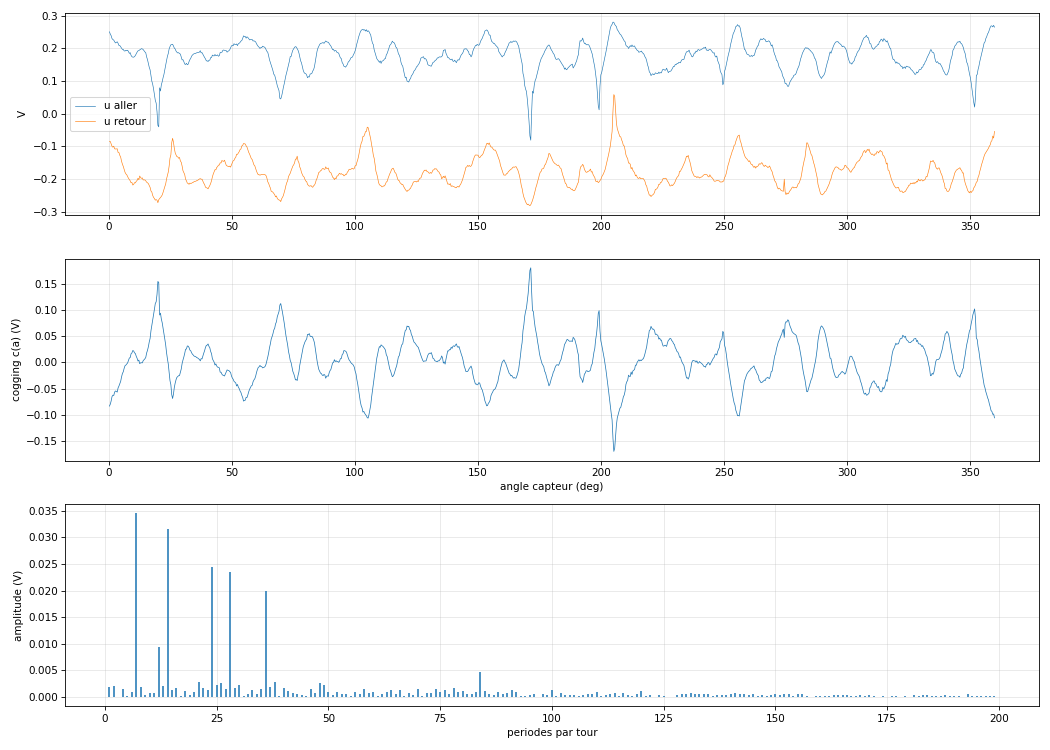
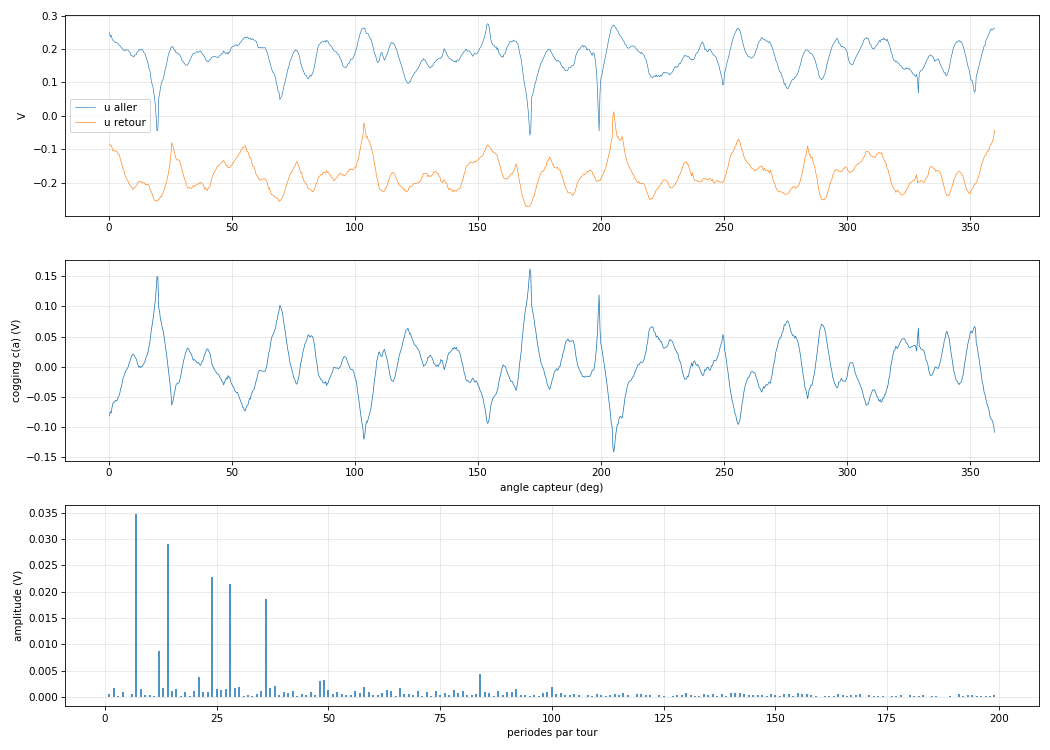
knob_lab : nouvelle loi de crans validee sans main, profils
e12 (main virtuelle, mode 7) : ancienne loi 1957 mV / 25 mrad de vibration
> 40 Hz en tournant et oscillation 4/4 aux lachers ; loi B (D=0,045, vitesse
sur 2 echantillons, cogging compense) 124 mV / 4 mrad, 0/4 -- le residu est
le transitoire du clic, pas une oscillation. Compensation du cogging par
table (gen_cogging.py -> cogging.h, reproductibilite 0,991) : effort du
ressort 47 -> 20 mV. Demarrage sur la loi B, profil.py pour basculer.

diff --git a/pendant/knob_lab/essais/e12_comparer.py b/pendant/knob_lab/essais/e12_comparer.py
@@ -1,0 +1,78 @@
+#!/usr/bin/env python3
+"""e12 -- banc comparatif de lois de crans, SANS MAIN.
+Pour chaque loi : repos (3 s), lachers (+-0,3 et +-0,45 largeur) et
+traversee de 4 crans dans chaque sens par la MAIN VIRTUELLE (mode 7).
+Indicateurs :
+  repos   u_rms (mV), v_rms (rad/s)          -> vibration propre
+  lacher  ecart final (deg), depassement      -> precision, rebond
+          oscille (oui/non)                   -> stabilite
+  tourner vib_u (mV rms > 40 Hz)              -> vibration en tournant
+          vib_a (mrad rms > 40 Hz)            -> ce que la main sent
+          crans (nb de changements de cran)   -> 8 attendus
+Usage : e12_comparer.py [noms de lois...] (voir LOIS)"""
+import sys, os, time
+sys.path.insert(0, os.path.dirname(os.path.dirname(os.path.abspath(__file__))))
+from lab import *
+from scipy.signal import butter, sosfiltfilt
+
+DEG = np.pi / 180
+LOIS = {
+  'ancien': dict(w=27*DEG, kd=1.6, dz=1.0*DEG, snap=1.1, d=0.20, nv=4, cog=0),
+  'A':      dict(w=27*DEG, kd=1.6, dz=0.5*DEG, snap=1.1, d=0.045, nv=2, cog=0),
+  'B':      dict(w=27*DEG, kd=1.6, dz=0.5*DEG, snap=1.1, d=0.045, nv=2, cog=1),
+  'C':      dict(w=27*DEG, kd=2.0, dz=0.5*DEG, snap=1.1, d=0.045, nv=2, cog=1),
+  'fin':    dict(w=12*DEG, kd=1.0, dz=0.3*DEG, snap=1.1, d=0.045, nv=2, cog=1),
+  'fin0':   dict(w=12*DEG, kd=1.0, dz=0.3*DEG, snap=1.1, d=0.045, nv=2, cog=0),
+}
+COMMUN = dict(tau=0, vz=0, nbc=0, kmur=0, umax=2.2, vmax=60)
+HP = butter(4, 40, 'highpass', fs=2000, output='sos')
+
+def hf(x):
+    return sosfiltfilt(HP, x - np.mean(x))
+
+def essai(L, nom, P):
+    w = P['w']
+    L.set(mode=0, **COMMUN, **P); time.sleep(0.3)
+    L.zero(); L.set(mode=6); time.sleep(1.0)
+    res = {}
+    r = L.rec(3.0)
+    res['repos_u'] = r['u'].std() * 1000
+    res['repos_v'] = np.sqrt(np.mean(vitesse(r, 2)**2))
+    centre = np.median(r['ang'])            # centre pose du cran 0 (absolu)
+    # lachers
+    ecarts, osc, dep = [], 0, []
+    for frac in (0.3, -0.3, 0.45, -0.45):
+        L.set(mode=5, k=25, d=0.03, cible=round(frac * w, 4), vr=1.0); time.sleep(0.6)
+        L.set(**{'d': P['d']})
+        r = L.rec(1.2, s1n=60, s1m=6)
+        rel = r['ang'][60:] - centre
+        fin = np.mean(rel[-300:])
+        e = fin - np.round(fin / w) * w
+        ecarts.append(abs(np.degrees(e)))
+        if np.sqrt(np.mean(vitesse(r, 2)[-300:]**2)) > 0.5: osc += 1
+        L.set(mode=6); time.sleep(0.4)
+    res['lacher_ecart'] = np.mean(ecarts); res['lacher_oscille'] = osc
+    # traversee par la main virtuelle : 4 crans aller, 4 retour
+    vib_u, vib_a, crans = [], [], 0
+    L.set(mode=6); time.sleep(0.3)
+    for cible in (4 * w, 0.0):
+        L.set(kh=5, vr=1.5, cible=round(cible, 4))
+        r = L.rec(4 * w / 1.5 + 0.6, s1n=1, s1m=7)
+        m = slice(100, -100)
+        vib_u.append(hf(r['u'])[m].std() * 1000)
+        vib_a.append(hf(r['ang'])[m].std() * 1000)
+        crans += int(((r['fl'] & FL_CRAN) != 0).sum())
+        sauve(r, f'e12_{nom}_trav{int(cible>0)}')
+        L.set(mode=6); time.sleep(0.5)
+    res['tourner_vib_u'] = np.mean(vib_u); res['tourner_vib_a'] = np.mean(vib_a)
+    res['crans'] = crans
+    L.set(mode=0)
+    return res
+
+noms = sys.argv[1:] or list(LOIS)
+with Lab() as L:
+    print(f"{'loi':8s} {'repos_u':>8s} {'repos_v':>8s} {'ecart':>7s} {'oscille':>7s} {'vib_u':>7s} {'vib_a':>7s} {'crans':>5s}")
+    for nom in noms:
+        r = essai(L, nom, LOIS[nom])
+        print(f"{nom:8s} {r['repos_u']:8.1f} {r['repos_v']:8.3f} {r['lacher_ecart']:7.2f} {r['lacher_oscille']:4d}/4 "
+              f"{r['tourner_vib_u']:7.0f} {r['tourner_vib_a']:7.2f} {r['crans']:5d}", flush=True)

diff --git a/pendant/knob_lab/cogging.h b/pendant/knob_lab/cogging.h
@@ -1,0 +1,8 @@
+/* cogging.h -- GENERE par gen_cogging.py a partir de : e09_carte_1.npz, e09_carte.npz
+ * c(a) en mV, 512 points sur un tour, indexe par raw14 >> 5.
+ * c > 0 : le cogging pousse vers les angles croissants. */
+#pragma once
+#include <stdint.h>
+static const int16_t COGGING_MV[512] = {
+-84, -71, -63, -58, -55, -48, -39, -27, -17, -9, -2, 5, 12, 18, 18, 13, 6, 1, 0, 2, 7, 15, 26, 42, 62, 83, 106, 126, 123, 97, 73, 57, 36, 13, -11, -37, -54, -51, -38, -29, -24, -14, 0, 13, 23, 28, 25, 20, 14, 11, 9, 6, 5, 7, 14, 22, 28, 28, 20, 9, 0, -6, -10, -14, -19, -24, -25, -21, -18, -19, -24, -31, -37, -42, -46, -53, -61, -68, -71, -67, -60, -52, -45, -37, -29, -19, -11, -8, -8, -8, -4, 7, 23, 38, 51, 61, 72, 86, 97, 98, 85, 66, 46, 26, 10, -4, -16, -26, -28, -18, -2, 15, 29, 39, 47, 51, 50, 47, 37, 19, 0, -14, -21, -24, -26, -27, -25, -19, -11, -4, 0, 0, 0, 3, 9, 15, 17, 13, 5, -1, -5, -11, -22, -38, -58, -78, -94, -102, -101, -96, -86, -69, -47, -23, 0, 16, 24, 25, 26, 22, 13, -1, -14, -22, -21, -13, -1, 12, 24, 36, 48, 58, 63, 60, 54, 45, 38, 33, 28, 21, 12, 5, 3, 7, 13, 16, 14, 8, 3, 2, 3, 6, 6, 2, 4, 14, 21, 26, 28, 30, 31, 28, 23, 15, 3, -10, -18, -20, -18, -19, -24, -30, -34, -37, -42, -50, -61, -74, -83, -81, -69, -59, -52, -46, -37, -24, -11, -2, 0, -5, -13, -20, -25, -29, -31, -29, -15, 7, 35, 64, 89, 112, 139, 145, 117, 85, 63, 42, 24, 9, -2, -11, -22, -32, -36, -31, -21, -12, -7, -4, 1, 11, 23, 34, 41, 42, 41, 42, 40, 31, 16, -1, -16, -23, -22, -19, -17, -16, -11, -1, 14, 40, 69, 71, 44, 18, -2, -24, -48, -74, -106, -134, -133, -111, -95, -86, -78, -65, -49, -36, -27, -23, -19, -13, -6, 0, 3, 5, 8, 16, 29, 45, 59, 64, 62, 57, 52, 47, 43, 38, 33, 32, 35, 40, 43, 40, 34, 27, 20, 13, 4, -5, -15, -21, -22, -14, -4, 3, 4, 2, 0, -3, -7, -9, -7, -4, -3, -2, 2, 8, 12, 17, 26, 37, 44, 38, 19, -4, -25, -45, -62, -76, -89, -95, -89, -72, -52, -36, -25, -19, -14, -11, -10, -14, -22, -30, -36, -38, -35, -32, -30, -27, -21, -9, 7, 22, 35, 44, 52, 59, 66, 73, 74, 68, 59, 54, 50, 45, 34, 19, -1, -21, -38, -47, -44, -35, -25, -11, 8, 31, 52, 64, 66, 59, 46, 30, 13, -2, -16, -26, -30, -28, -24, -21, -22, -21, -13, -1, 6, 6, -1, -11, -19, -27, -36, -46, -55, -61, -60, -54, -45, -40, -40, -45, -50, -55, -55, -51, -45, -35, -22, -6, 10, 24, 31, 33, 37, 42, 46, 46, 43, 39, 36, 36, 37, 38, 39, 41, 36, 31, 27, 20, 10, -2, -13, -17, -13, -5, 0, 4, 12, 24, 39, 50, 53, 44, 27, 8, -8, -19, -25, -26, -22, -11, 6, 25, 42, 56, 67, 75, 69, 45, 21, 1, -19, -37, -51, -63, -75, -85, -94, -95
+};

diff --git a/pendant/knob_lab/essais/e09_cogging.py b/pendant/knob_lab/essais/e09_cogging.py
@@ -10,13 +10,15 @@ sys.path.insert(0, os.path.dirname(os.path.dirname(os.path.abspath(__file__))))
 from lab import *
 
 K, D, VR = 30.0, 0.04, 0.4
+COG = float(os.environ.get('COG', '0'))
+SUF = os.environ.get('SUF', '')
 TOUR = 2 * np.pi
 with Lab() as L:
     L.zero()
-    L.set(mode=5, k=K, d=D, vr=VR, cible=0, umax=2.2)
+    L.set(mode=5, k=K, d=D, vr=VR, cible=0, umax=2.2, cog=COG)
     time.sleep(0.5)
-    L.set(cible=round(TOUR + 0.3, 4)); ra = L.rec((TOUR + 0.3) / VR + 0.5, nom='e09_aller')
-    L.set(cible=-0.3);                 rr = L.rec((TOUR + 0.6) / VR + 0.5, nom='e09_retour')
+    L.set(cible=round(TOUR + 0.3, 4)); ra = L.rec((TOUR + 0.3) / VR + 0.5, nom=f'e09_aller{SUF}')
+    L.set(cible=-0.3);                 rr = L.rec((TOUR + 0.6) / VR + 0.5, nom=f'e09_retour{SUF}')
     L.set(cible=0); time.sleep(1.5)
     L.set(mode=0)
 
@@ -45,7 +47,7 @@ F = np.abs(np.fft.rfft(c0)) * 2 / ok.sum()
 top = np.argsort(F[1:200])[::-1][:6] + 1
 print('harmoniques dominants (periodes/tour : amplitude V) :',
       ', '.join(f'{k}:{F[k]:.3f}' for k in top))
-np.savez(os.path.join(OUT, 'e09_carte.npz'), cen=cen, cog=cog, fr=fr, ua=ua, ub=ub)
+np.savez(os.path.join(OUT, f'e09_carte{SUF}.npz'), cen=cen, cog=cog, fr=fr, ua=ua, ub=ub)
 import matplotlib; matplotlib.use('Agg'); import matplotlib.pyplot as plt
 fig, ax = plt.subplots(3, 1, figsize=(14, 10))
 ax[0].plot(np.degrees(cen), ua, lw=.6, label='u aller'); ax[0].plot(np.degrees(cen), ub, lw=.6, label='u retour')
@@ -54,4 +56,4 @@ ax[1].plot(np.degrees(cen), cog, lw=.7); ax[1].set_ylabel('cogging c(a) (V)'); a
 ax[1].set_xlabel('angle capteur (deg)')
 ax[2].stem(np.arange(1, 200), F[1:200], markerfmt=' ', basefmt=' '); ax[2].set_xlabel('periodes par tour')
 ax[2].set_ylabel('amplitude (V)'); ax[2].grid(alpha=.3)
-fig.tight_layout(); fig.savefig(os.path.join(OUT, 'e09_cogging.png'), dpi=75)
+fig.tight_layout(); fig.savefig(os.path.join(OUT, f'e09_cogging{SUF}.png'), dpi=75)

diff --git a/pendant/knob_lab/profil.py b/pendant/knob_lab/profil.py
@@ -1,0 +1,41 @@
+#!/usr/bin/env python3
+"""profil.py -- change le comportement du volant a chaud.
+
+    ./profil.py            liste les profils
+    ./profil.py B          charge le profil B
+    ./profil.py B kd=1.2   profil B avec une retouche
+
+Les reglages restent en memoire de la carte jusqu'a coupure (au demarrage :
+profil B, defini dans knob_lab.ino)."""
+import sys, os
+sys.path.insert(0, os.path.dirname(os.path.abspath(__file__)))
+from lab import Lab
+DEG = 3.141592653589793 / 180
+COMMUN = dict(mode=6, tau=0, vz=0, nbc=0, kmur=0, umax=2.2, vmax=60, it=0, stream=0)
+PROFILS = {
+  'ancien': ('ancienne loi (D trop fort) : POUR COMPARER, elle vibre',
+             dict(w=27*DEG, kd=1.6, dz=1.0*DEG, snap=1.1, d=0.20, nv=4, cog=0)),
+  'A':  ('27 deg, 1,6 V, amortissement corrige, cogging NON compense',
+         dict(w=27*DEG, kd=1.6, dz=0.5*DEG, snap=1.1, d=0.045, nv=2, cog=0)),
+  'B':  ('27 deg, 1,6 V, amortissement corrige, cogging compense (demarrage)',
+         dict(w=27*DEG, kd=1.6, dz=0.5*DEG, snap=1.1, d=0.045, nv=2, cog=1)),
+  'C':  ('27 deg, 2,0 V (plus ferme), cogging compense',
+         dict(w=27*DEG, kd=2.0, dz=0.5*DEG, snap=1.1, d=0.045, nv=2, cog=1)),
+  'fin': ('12 deg (30 crans/tour), 1,0 V, cogging compense',
+          dict(w=12*DEG, kd=1.0, dz=0.3*DEG, snap=1.1, d=0.045, nv=2, cog=1)),
+  'libre': ('aucun cran : roue libre, juste le frottement du moteur',
+            dict(w=27*DEG, kd=0.0, dz=0.0, snap=1.1, d=0.0, nv=2, cog=1)),
+}
+if len(sys.argv) < 2:
+    for k, (txt, _) in PROFILS.items():
+        print(f'  {k:7s} {txt}')
+    sys.exit(0)
+txt, p = PROFILS[sys.argv[1]]
+p = dict(p)
+for a in sys.argv[2:]:
+    k, v = a.split('='); p[k] = float(v)
+L = Lab()
+L.set(mode=0); L.set(**{k: v for k, v in COMMUN.items() if k != 'mode'}, **p)
+L.zero(); L.set(mode=6)
+L.close()
+print(f'profil {sys.argv[1]} : {txt}')

diff --git a/pendant/knob_lab/gen_cogging.py b/pendant/knob_lab/gen_cogging.py
@@ -1,0 +1,27 @@
+#!/usr/bin/env python3
+"""gen_cogging.py -- fabrique cogging.h a partir des cartes e09 (moyenne).
+Table de 512 points en mV, indexee par le brut capteur (raw14 >> 5).
+c(a) > 0 = le cogging pousse vers les angles croissants ; le firmware
+ajoute -cog * c(a)."""
+import sys, os, numpy as np
+HERE = os.path.dirname(os.path.abspath(__file__))
+cartes = sys.argv[1:] or [os.path.join(HERE, 'mesures', f) for f in ('e09_carte_1.npz', 'e09_carte.npz')]
+cs = [np.load(f)['cog'] for f in cartes]
+c = np.nanmean(np.vstack(cs), axis=0)
+# trous eventuels : interpolation circulaire
+n = len(c); x = np.arange(n); ok = ~np.isnan(c)
+c = np.interp(x, x[ok], c[ok], period=n)
+c = c - c.mean()                                   # le cogging n'a pas de moyenne
+c = c.reshape(512, -1).mean(axis=1)                # 1024 -> 512
+# lissage leger circulaire (3 points) : retire le bruit sans emousser les pics
+c = (np.roll(c, 1) + 2 * c + np.roll(c, -1)) / 4
+mv = np.round(c * 1000).astype(int)
+lignes = ', '.join(str(v) for v in mv)
+with open(os.path.join(HERE, 'cogging.h'), 'w') as f:
+    f.write('/* cogging.h -- GENERE par gen_cogging.py a partir de : %s\n'
+            ' * c(a) en mV, 512 points sur un tour, indexe par raw14 >> 5.\n'
+            ' * c > 0 : le cogging pousse vers les angles croissants. */\n'
+            '#pragma once\n#include <stdint.h>\n'
+            'static const int16_t COGGING_MV[512] = {\n%s\n};\n'
+            % (', '.join(os.path.basename(x) for x in cartes), lignes))
+print(f'cogging.h : crete-a-crete {mv.max()-mv.min()} mV, rms {mv.std():.1f} mV')
